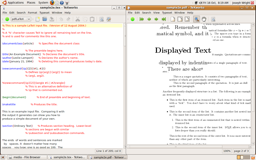
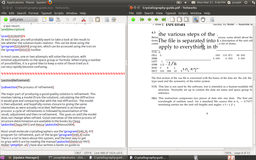
[website] Update screenshots and downloads
* New screenshots courtesy of Joseph Wright
 * Added links to Tw Mac build by Jjgod Jiang and openSUSE packages by Atri Bhattacharya
 * Added warning/workaround for GC search index cache problem

git-svn-id: http://texworks.googlecode.com/svn@760 9a2a4a0b-1251-0410-9248-99fc04669920

diff --git a/index.html b/index.html
@@ -89,10 +89,12 @@ with DVI at all, but can generally treat TeX as a system that goes directly from
 
 <p>You can get binaries for the following platforms:</p>
 <ul>
-	<li><a href="http://code.google.com/p/texworks/downloads/list?can=3&amp;q=OpSys%3DWindows">Microsoft Windows</a></li>
-	<li><a href="http://code.google.com/p/texworks/downloads/list?can=3&amp;q=OpSys%3DOSX">Mac OS X</a></li>
-	<li><a href="https://launchpad.net/~texworks/+archive/stable">Ubuntu</a></li>
+	<li>Microsoft Windows: <a href="http://code.google.com/p/texworks/downloads/list?can=3&amp;q=OpSys%3DWindows">TeXworks 0.4.0</a></li>
+	<li>Mac OS X: <a href="http://code.google.com/p/texworks/downloads/list?can=3&amp;q=OpSys%3DOSX">TeXworks 0.2.3</a>, for Mac OS 10.5 and up on x86_64: <a href="https://www.dropbox.com/s/vs9qutjgtwised7/TeXworks.zip">TeXworks 0.4.0</a></li>
+	<li>GNU/Linux: <a href="https://launchpad.net/~texworks/+archive/stable">Ubuntu</a>, <a href="http://software.opensuse.org/search?q=texworks&amp;baseproject=ALL&amp;lang=en&amp;exclude_debug=true">openSUSE</a></li>
 </ul>
+
+<p><em>Due to a problem with the Google Code search index, some of the links above may not show the latest versions. In that case, you can pick the <a href="http://code.google.com/p/texworks/downloads/list?can=3">featured download</a> suitable for your system. Alternatively, you can view <a href="http://code.google.com/p/texworks/downloads/list">all current downloads</a> (this will include development versions).</em></p>
 
 <p>Note that TeX Live (since version 2009) and MiKTeX (since version 2.8) both include TeXworks for MS Windows, and the MacTeX release (since version 2009, corresponding to TeX Live 2009) includes TeXworks for Mac&nbsp;OS&nbsp;X. For Linux, prepackaged binaries may be available through the usual channels for your distribution or are currently in preparation.</p>
 
@@ -100,12 +102,12 @@ with DVI at all, but can generally treat TeX as a system that goes directly from
 If no binaries are available for your platform, you can grab a copy of the <a href="http://code.google.com/p/texworks/downloads/list?can=3&amp;q=Type%3DSource">sources</a> and build TeXworks yourself.
 </p>
 
-<p>A few screenshots are available showing the TeXworks 0.2 release running on the three major supported operating systems (click images to open full-size versions):</p>
+<p>A few screenshots are available showing the TeXworks 0.4 release running on the three major supported operating systems (click images to open full-size versions):</p>
 
 <table>
 <tr>
   <td><a href="img/texworks-linux.png" target="_blank"><img src="img/texworks-linux-thumb.png" alt="Linux (Ubuntu) screenshot"><br></a>TeXworks on GNU/Linux (Ubuntu)</td>
-  <td><a href="img/texworks-winxp.png" target="_blank"><img src="img/texworks-winxp-thumb.png" alt="Windows XP screenshot"><br></a>TeXworks on Windows XP</td>
+  <td><a href="img/texworks-win7.png" target="_blank"><img src="img/texworks-win7-thumb.png" alt="Windows 7 screenshot"><br></a>TeXworks on Windows 7</td>
   <td><a href="img/texworks-osx.png" target="_blank"><img src="img/texworks-osx-thumb.png" alt="Mac OS X screenshot"></a><br>TeXworks on Mac&nbsp;OS&nbsp;X</td>
 </tr>
 </table>
